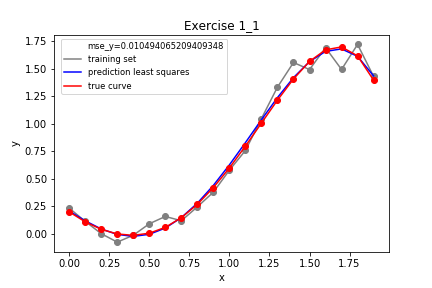
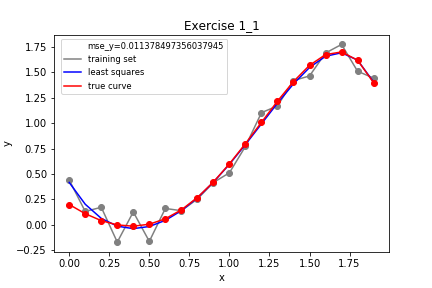
up
up

diff --git a/exercise1_3.py b/exercise1_3.py
@@ -60,17 +60,17 @@ def exercise1_3(N, N_test, l_list, mu, sigma_square, theta_0):
         plt.plot(0, label='mse_y='+str(mse2), color='white')
         plt.plot(N_points, Y_training, label='training set', color='grey')
         plt.plot(N_points, Y_training, 'o', color='grey')
-        plt.plot(N_points, Y_ridge_regression, label='prediction ridge regression with l=' + str(+l_list[i]), color='#339900')
+        plt.plot(N_points, Y_ridge_regression, label='ridge regression with l=' + str(+l_list[i]), color='#339900')
         plt.plot(N_points, Y_true, label='true curve', color='red')
         plt.plot(N_points, Y_true, 'o', color='red')
     
-        plt.legend(bbox_to_anchor=(0.6, 1.0), fontsize='small')
+        plt.legend(bbox_to_anchor=(0.53, 1.0), fontsize='small')
         print_figure("exercise1_3_" + chr(ord('`') + (i + 1)))
         plt.show()
 
 
 
 
-exercise1_3(20, 1000, [0.000006, 0.1, 0.05], 0, 0.1, [0.2, -1, 0.9, 0.7, 0, -0.2])
+exercise1_3(20, 1000, [0.006, 0.1, 0.05], 0, 0.1, [0.2, -1, 0.9, 0.7, 0, -0.2])
 
 

diff --git a/exercise1_1.py b/exercise1_1.py
@@ -65,7 +65,7 @@ def exercise1_1(N, test, mu, sigma_square, theta_0):
     plt.plot(0, label='mse_y='+str(mse2), color='white')
     plt.plot(N_points, Y_training, label='training set', color='grey')
     plt.plot(N_points, Y_training, 'o', color='grey')
-    plt.plot(N_points, Y_least_squares, label='prediction least squares', color='blue')
+    plt.plot(N_points, Y_least_squares, label='least squares', color='blue')
     plt.plot(N_points, Y_true, label='true curve', color='red')
     plt.plot(N_points, Y_true, 'o', color='red')
 
